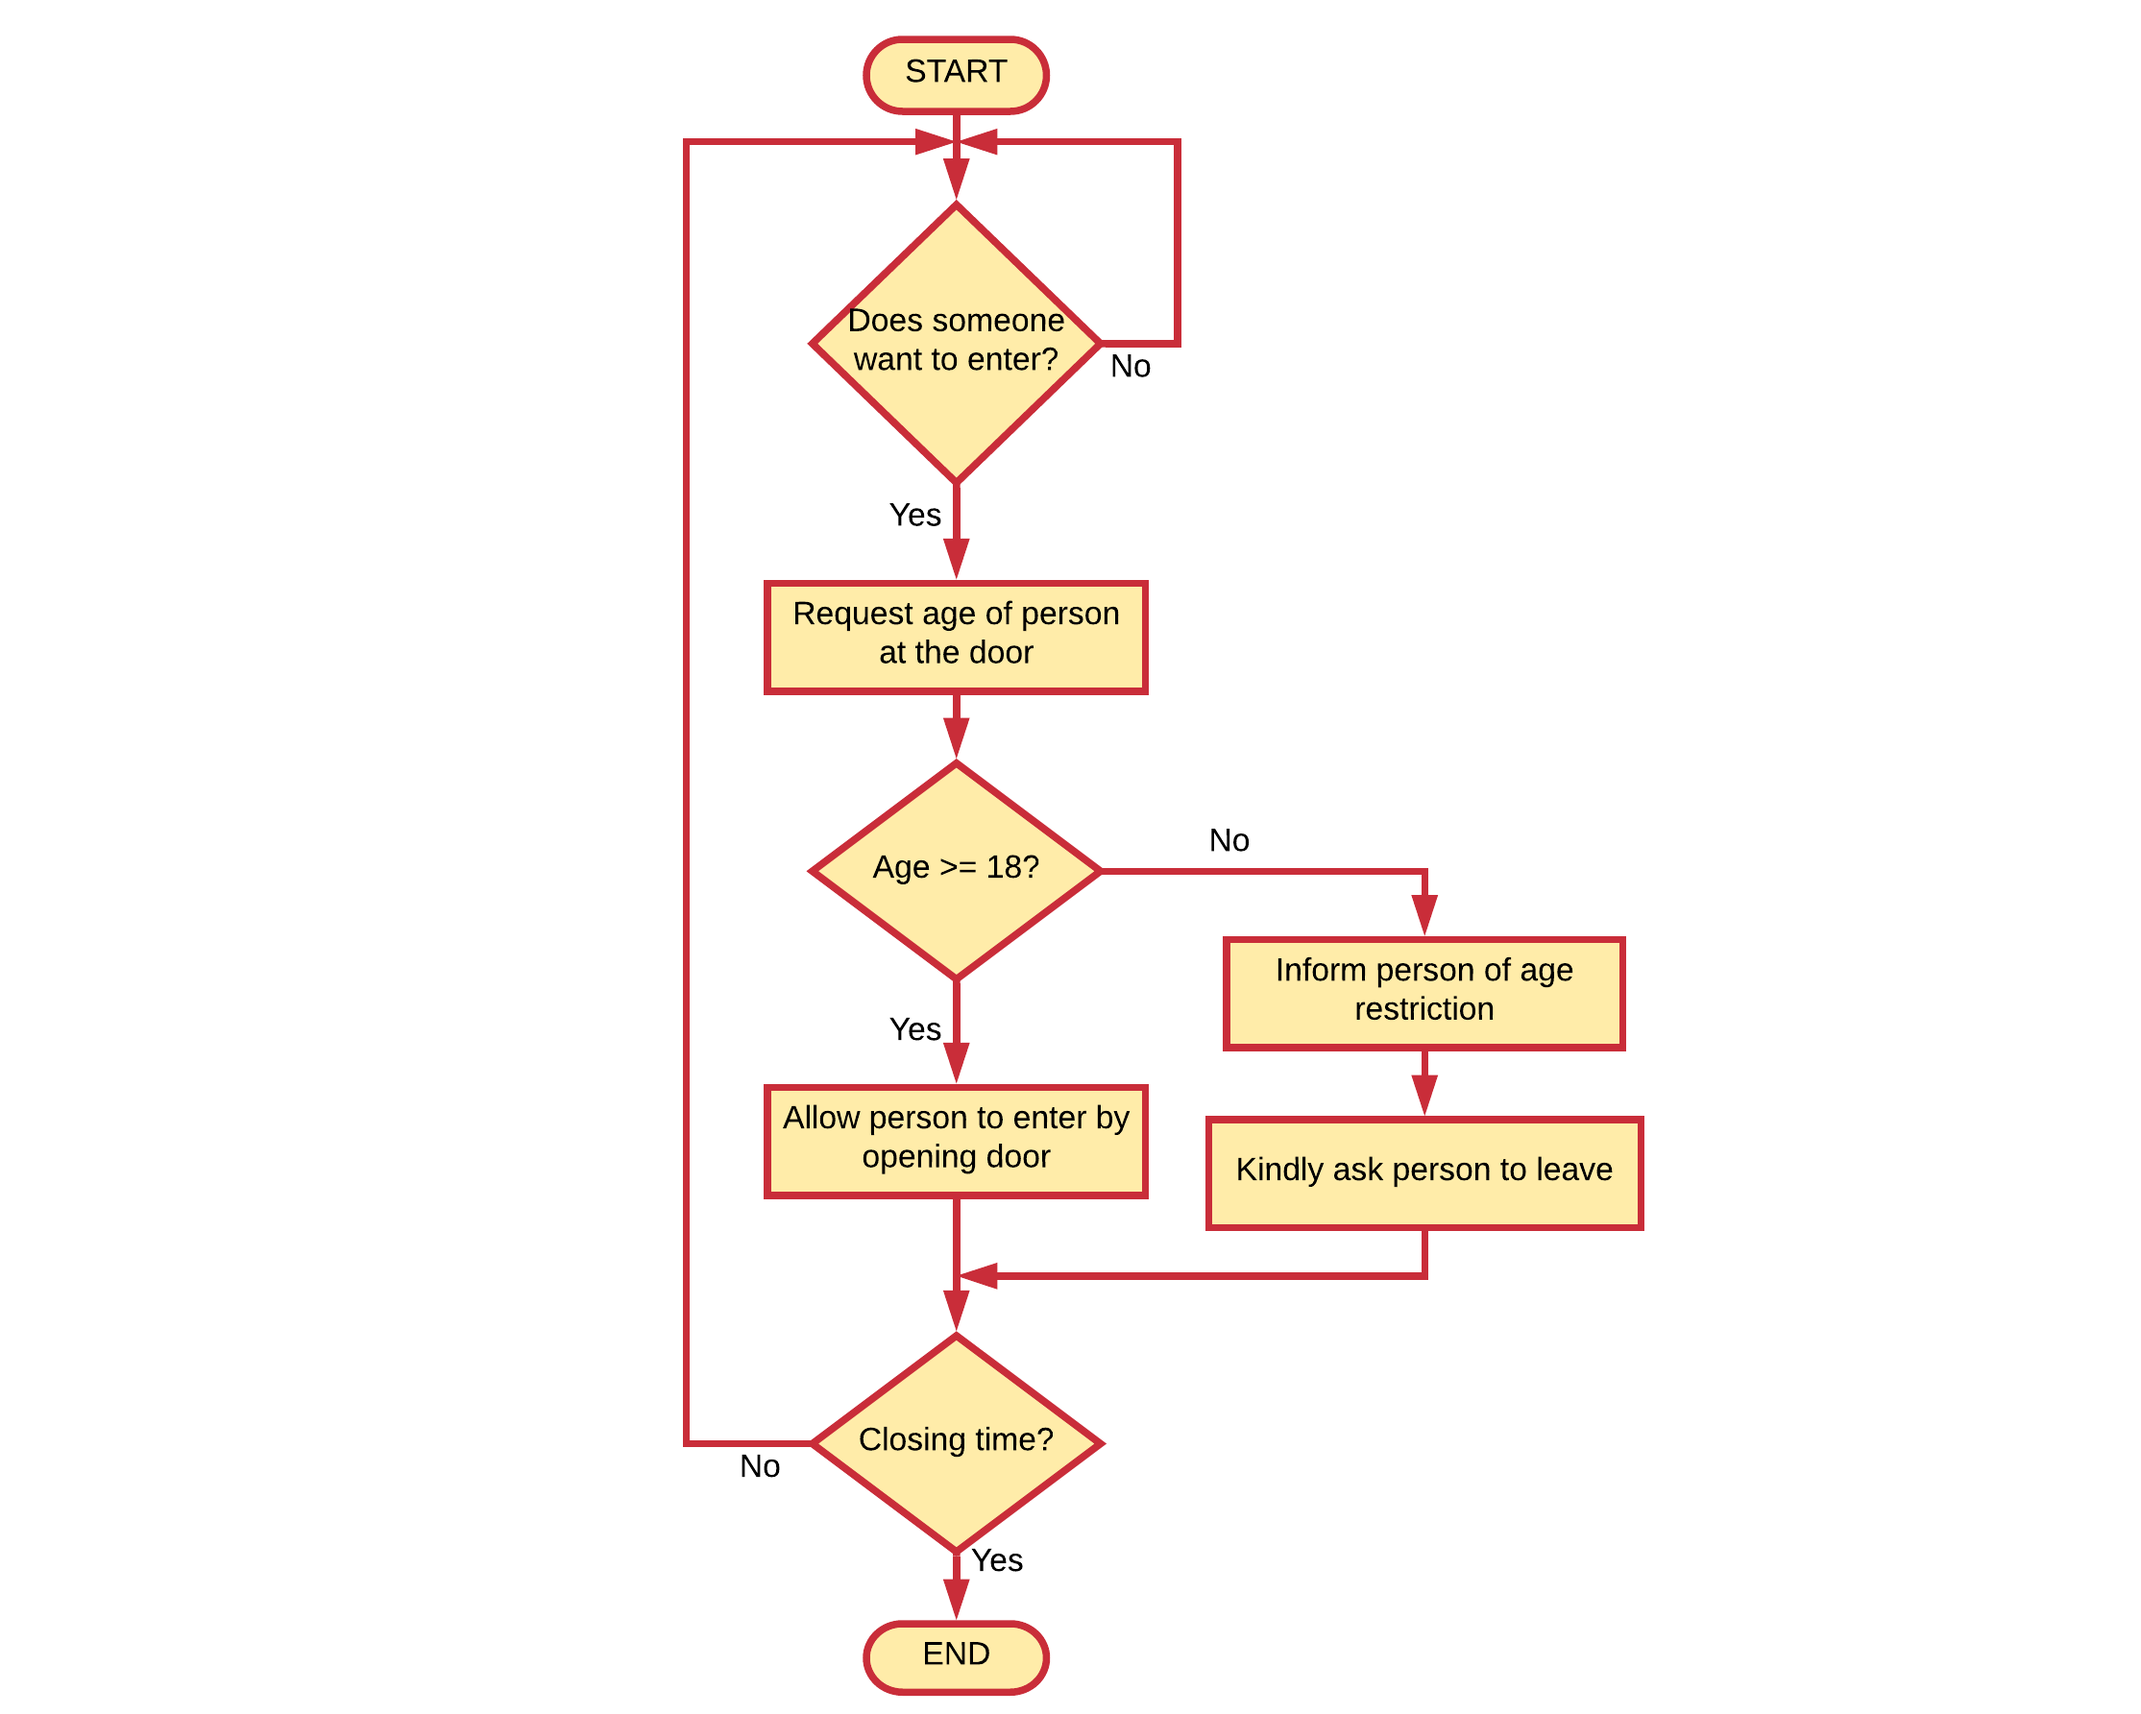
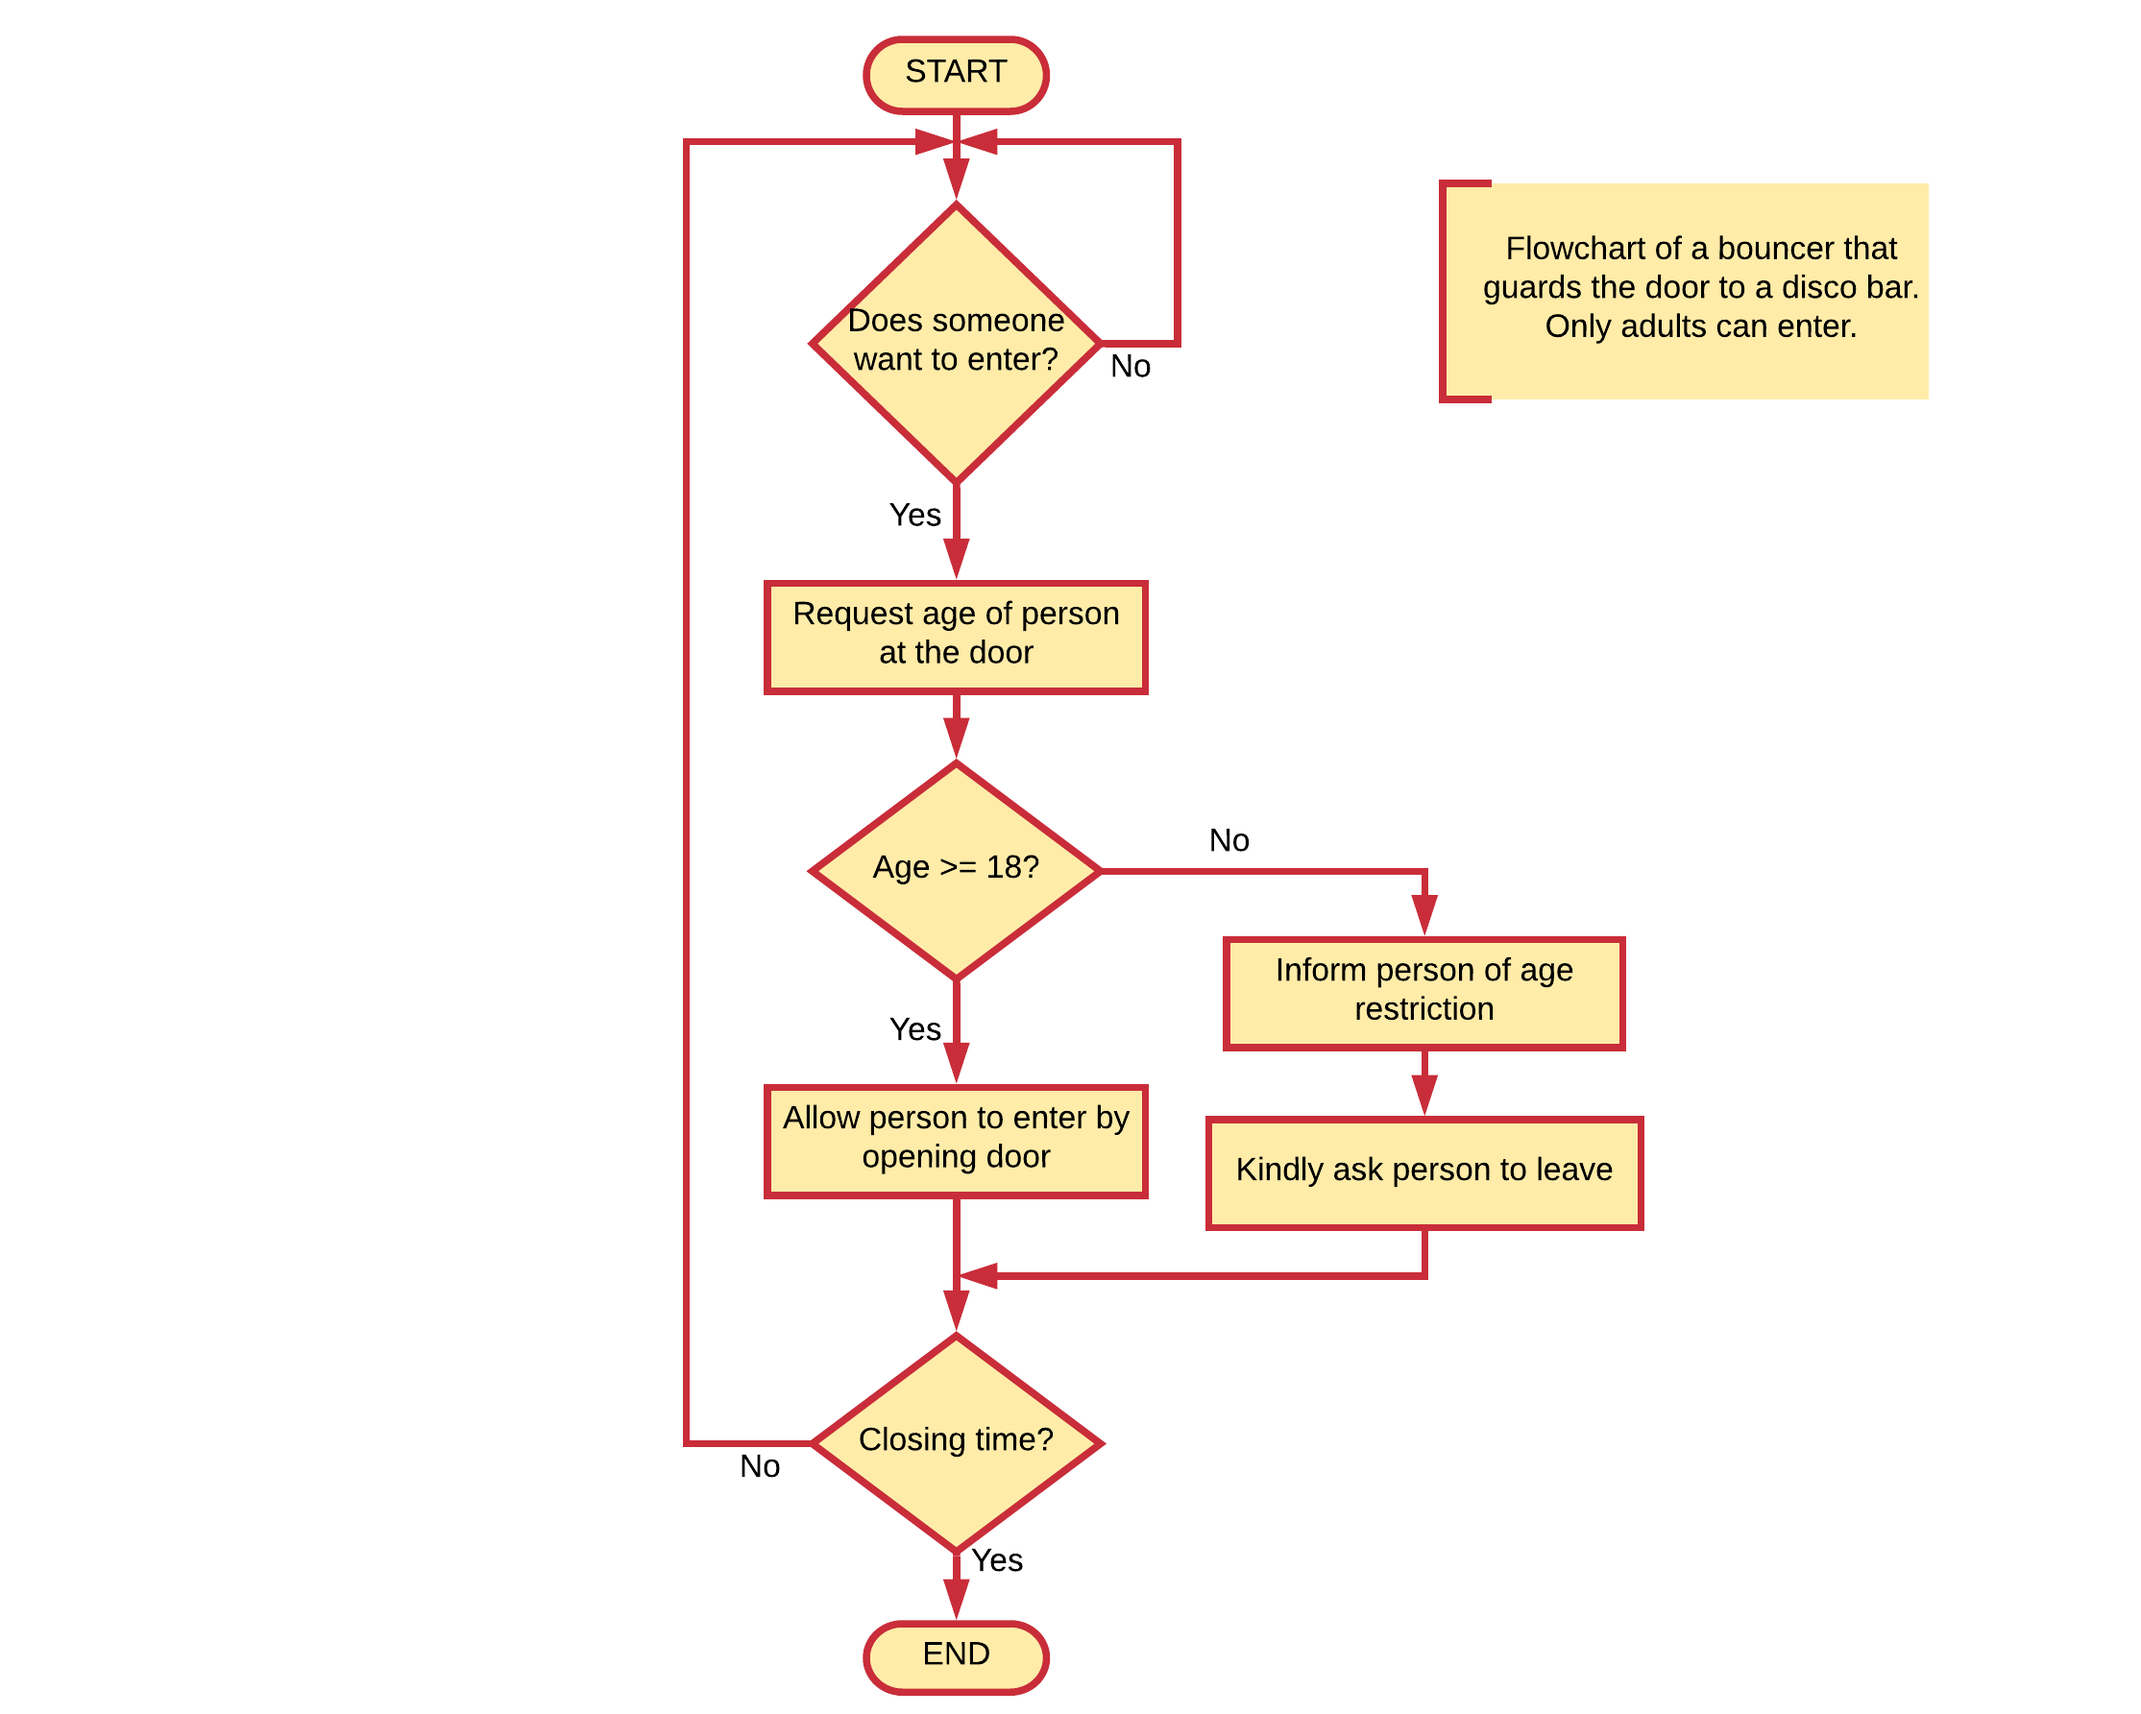
Add flowchart note symbol with example

Changed region(s): [[0.6501, 0.0924, 0.9287, 0.2465]]

diff --git a/02_basic_building_blocks/flowcharts.md b/02_basic_building_blocks/flowcharts.md
@@ -32,6 +32,10 @@ A **predefined process** shows a named process which is defined somewhere else. 
 
 ![Predefined Process](img/flowchart_predefined_process.png)
 
+A **note** is used to clarify something in your flowchart. It can give a general description of the process or elaborate a certain action or part of your process. Use where needed. 
+
+![Note](img/flowchart_note.png)
+
 ### Not a strict standard
 
 Flowcharts are a bit of a free-for-all tool to document a process. This means that if you let 5 developers model a process using flowcharts, you will get 5 different flowcharts. They will all model the same process and use the same symbols but the actual implementation of the blocks will be different.
